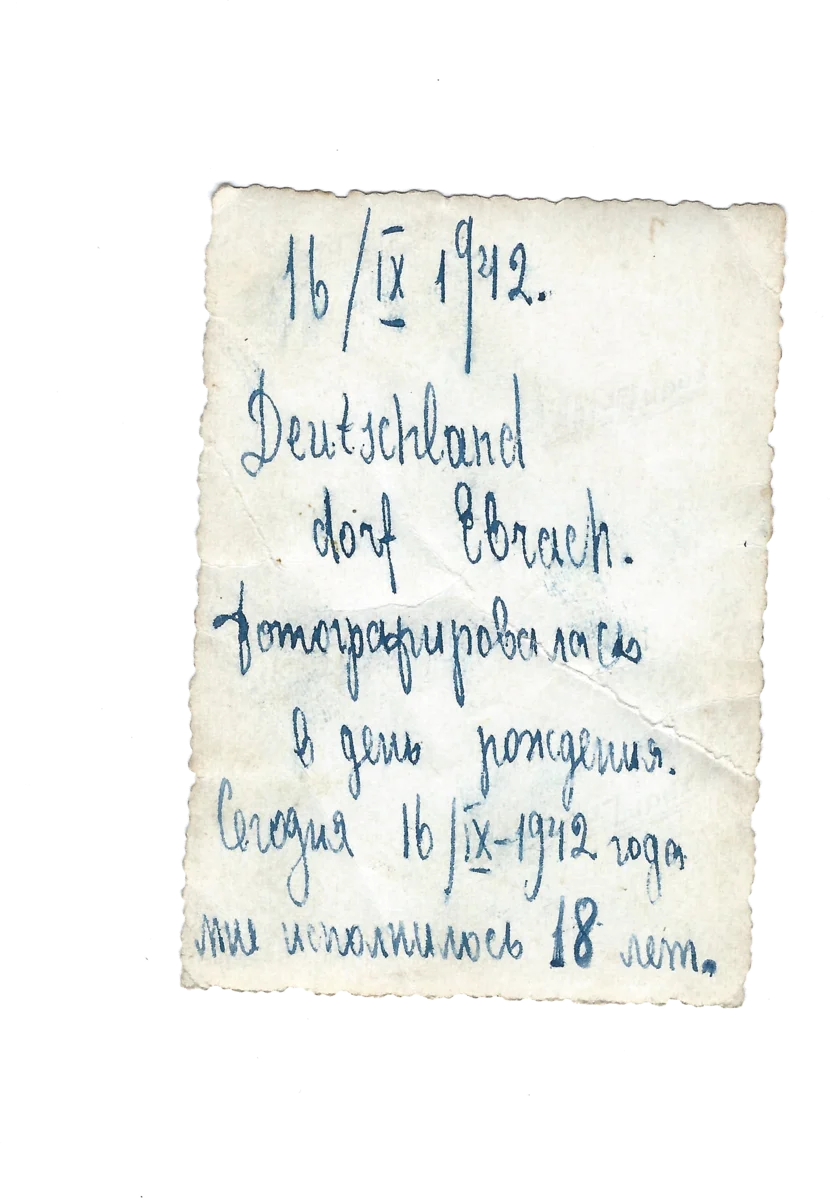
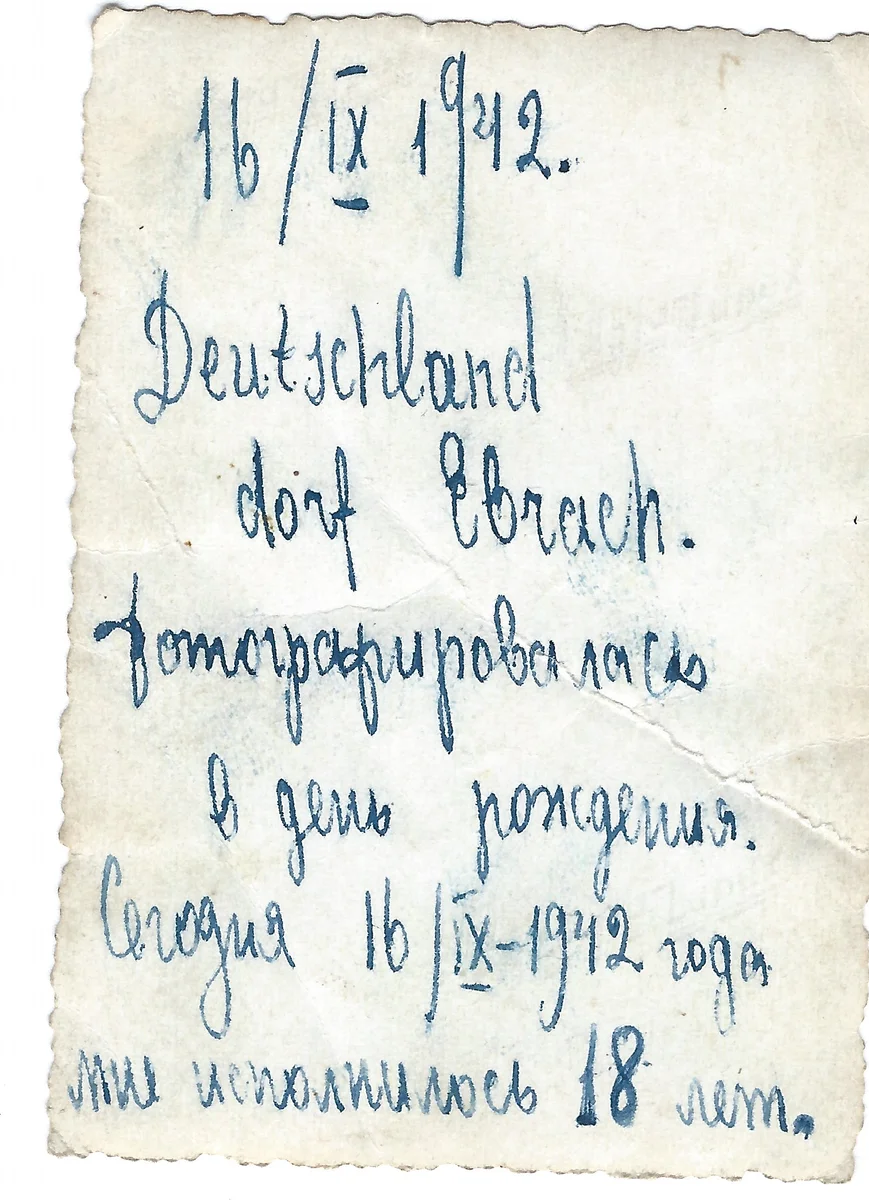
Add flip to homepage portrait, tighten back side crops
- Homepage portrait now flips to show birthday inscription on click
- SCAN0187 (inscription back) cropped tight to note paper
- SCAN0190 (postcard back) cropped tight without transparency artifacts

diff --git a/themes/raisa/layouts/index.html b/themes/raisa/layouts/index.html
@@ -4,8 +4,18 @@
 <div class="hero" style="position: relative;">
   <div class="hero-image" style="margin: 0 auto 2rem; display: flex; flex-wrap: wrap; gap: 2rem; justify-content: center; align-items: center; padding: 0 1rem;">
     <div style="text-align: center;">
-      <img src="{{ "scans/SCAN0188.webp" | relURL }}" alt="{{ if eq $lang "ru" }}Раиса Погорелова, 18 лет. Эбрах, Германия. 16 сентября 1942{{ else if eq $lang "de" }}Raisa Pogorelova, 18 Jahre. Ebrach, Deutschland. 16. September 1942{{ else }}Raisa Pogorelova, age 18. Ebrach, Germany. September 16, 1942{{ end }}" style="height: 500px; max-height: 65vh; max-width: 80vw; width: auto; filter: drop-shadow(5px 5px 10px rgba(0,0,0,0.3)); transform: rotate(-3deg);">
+      <div class="photo-flip" onclick="this.classList.toggle('flipped')" style="display: inline-block; height: min(500px, 65vh); aspect-ratio: 752/1200;">
+        <div class="photo-flip-inner" style="transform-origin: center center; rotate: -3deg;">
+          <div class="photo-flip-front">
+            <img src="{{ "scans/SCAN0188.webp" | relURL }}" alt="{{ if eq $lang "ru" }}Раиса Погорелова, 18 лет. Эбрах, Германия. 16 сентября 1942{{ else if eq $lang "de" }}Raisa Pogorelova, 18 Jahre. Ebrach, Deutschland. 16. September 1942{{ else }}Raisa Pogorelova, age 18. Ebrach, Germany. September 16, 1942{{ end }}" style="filter: drop-shadow(5px 5px 10px rgba(0,0,0,0.3));">
+          </div>
+          <div class="photo-flip-back">
+            <img src="{{ "scans/SCAN0187.webp" | relURL }}" alt="{{ if eq $lang "ru" }}Надпись на обороте{{ else if eq $lang "de" }}Rückseite{{ else }}Back inscription{{ end }}" style="filter: drop-shadow(5px 5px 10px rgba(0,0,0,0.3));">
+          </div>
+        </div>
+      </div>
       <div style="margin-top: 0.5rem; font-size: 0.8rem; color: var(--text-muted, #8b7d6b); font-style: italic;">{{ if eq $lang "ru" }}Раиса, 18 лет. Эбрах, 16 сентября 1942{{ else if eq $lang "de" }}Raisa, 18 Jahre. Ebrach, 16. September 1942{{ else }}Raisa, age 18. Ebrach, September 16, 1942{{ end }}</div>
+      <div class="photo-flip-hint">{{ if eq $lang "ru" }}нажмите, чтобы перевернуть{{ else if eq $lang "de" }}klicken zum Umdrehen{{ else }}click to turn over{{ end }}</div>
     </div>
     <img src="{{ "scans/SCAN0165.webp" | relURL }}" alt="{{ if eq $lang "ru" }}Первая страница дневника Раисы, 8 мая 1942{{ else if eq $lang "de" }}Erste Tagebuchseite von Raisa, 8. Mai 1942{{ else }}First diary page by Raisa, May 8, 1942{{ end }}" style="height: 320px; max-height: 42vh; max-width: 60vw; width: auto; filter: drop-shadow(3px 3px 8px rgba(0,0,0,0.25)); transform: rotate(2.5deg);">
   </div>
